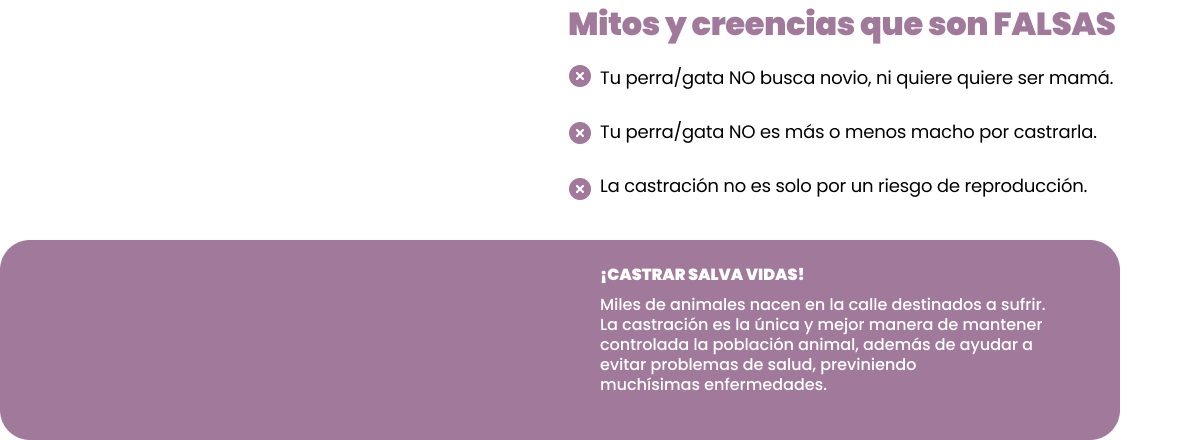
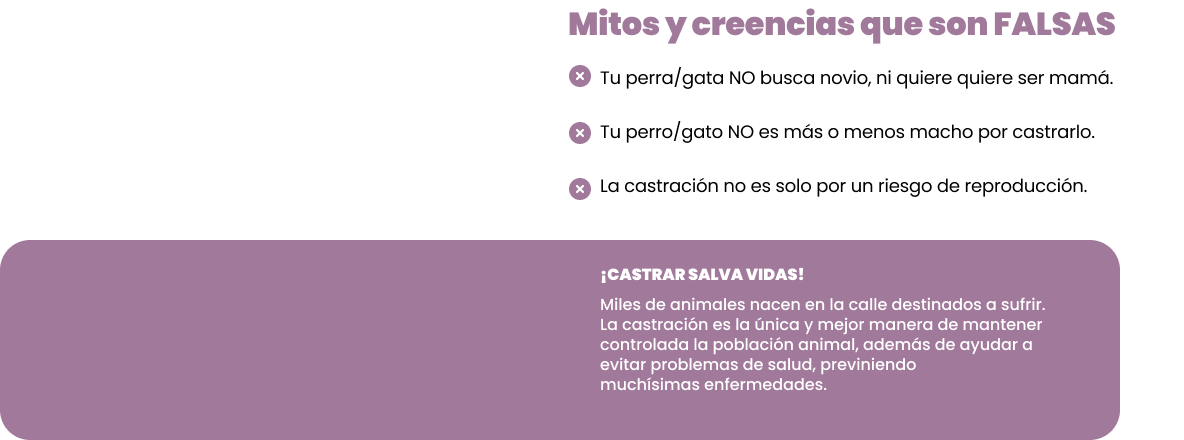
act desktop

Changed region(s): [[0.5625, 0.2659, 0.9375, 0.325]]

diff --git a/pages/castrar.html b/pages/castrar.html
@@ -96,7 +96,7 @@
             <img src="../multimedia/img/infoUtil/castracionesImg2.png" class='img__castraciones' draggable="false" alt="">
             <h2 class="mitos">Mitos y creencias  que son FALSAS</h2>
             <img src="../multimedia/img/infoUtil/IconMitos.png" alt="icono" class="iconmitos1"><p class="parraf__mitos__1"> Tu perra/gata NO busca novio, ni quiere quiere ser mamá.</p>
-            <img src="../multimedia/img/infoUtil/IconMitos.png" alt="icono" class="iconmitos2"><p class="parraf__mitos__2"> Tu perra/gata NO es más o menos macho por castrarla.</p>
+            <img src="../multimedia/img/infoUtil/IconMitos.png" alt="icono" class="iconmitos2"><p class="parraf__mitos__2"> Tu perro/gato NO es más o menos macho por castrarlo.</p>
             <img src="../multimedia/img/infoUtil/IconMitos.png" alt="icono" class="iconmitos3"><p class="parraf__mitos__3"> La castración no es sólo por un riesgo de reproducción. </p>
             <!-- rectangulo -->
             <div class="rectangulo">
